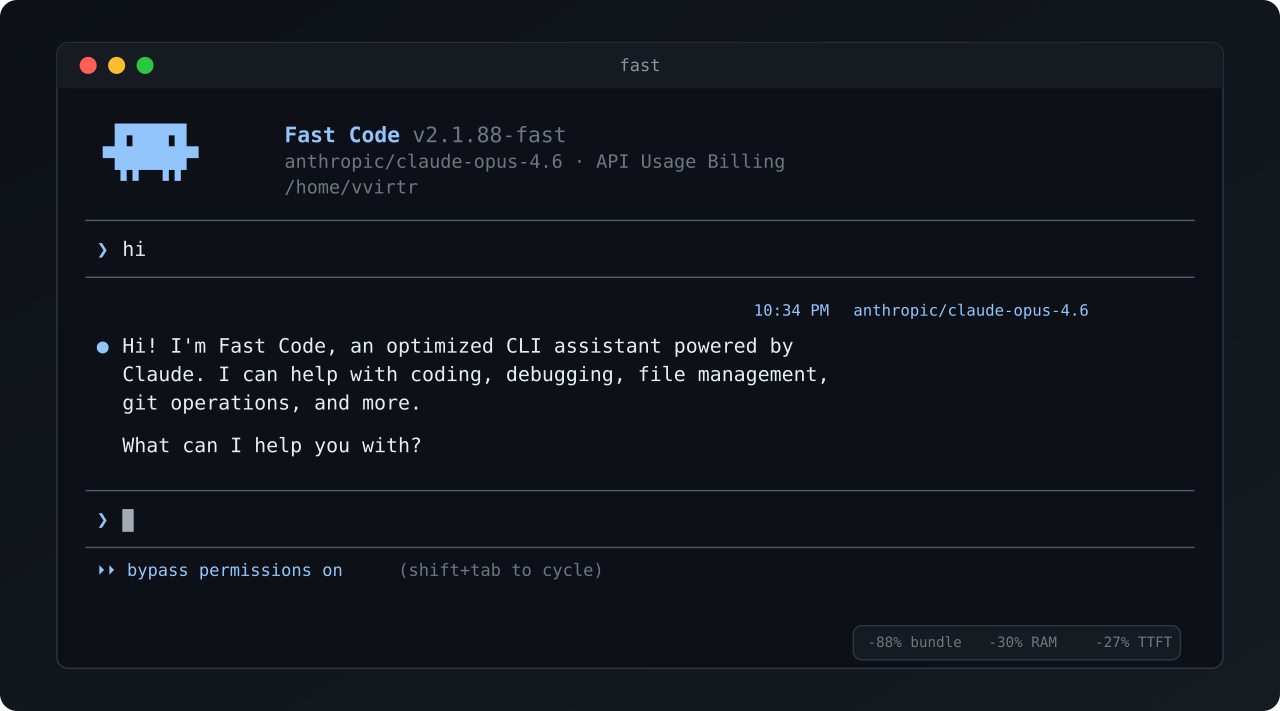
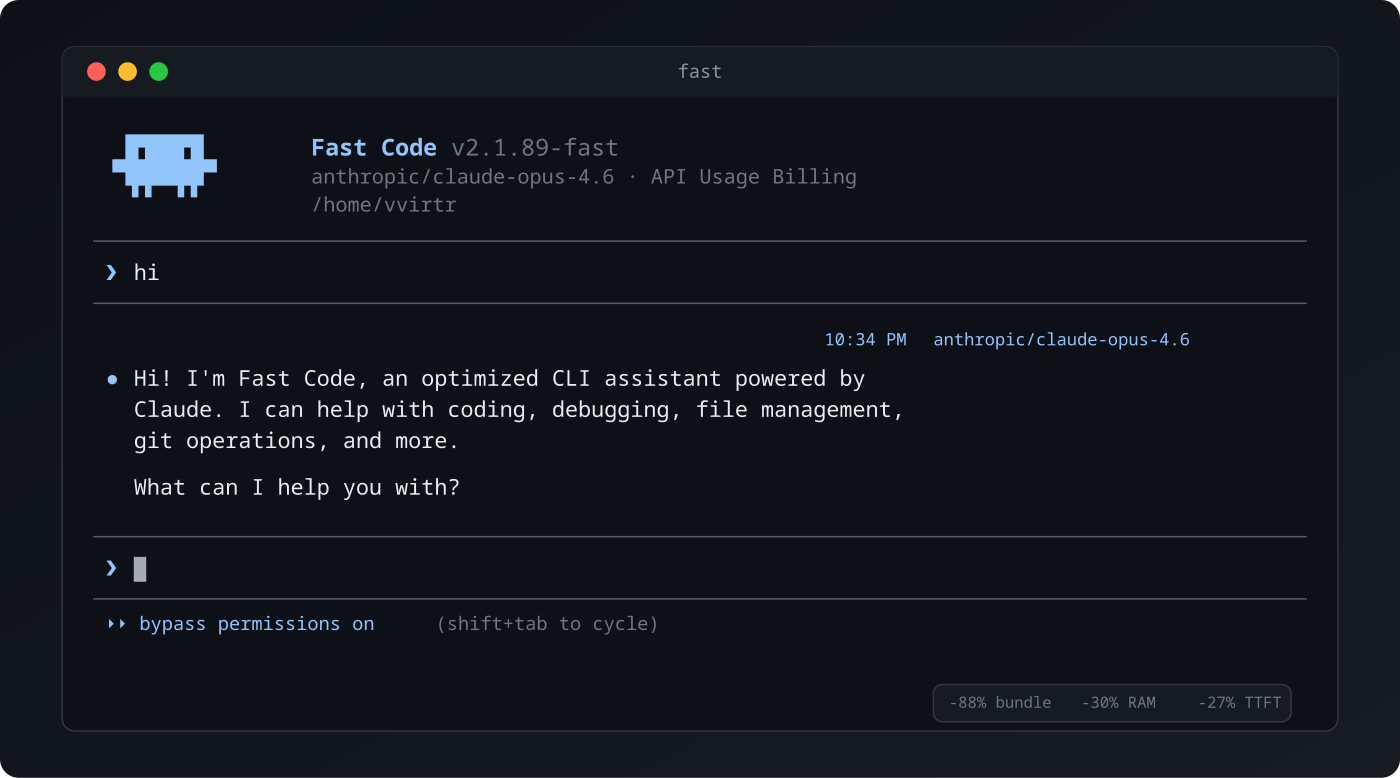
Bump version to 2.1.89-fast

diff --git a/build.ts b/build.ts
@@ -99,7 +99,7 @@ const FEATURE_FLAGS: Record<string, boolean> = {
   WORKFLOW_SCRIPTS: false,
 };
 
-const version = process.env.VERSION || "2.1.88-fast";
+const version = process.env.VERSION || "2.1.89-fast";
 const buildTime = new Date().toISOString();
 
 const define: Record<string, string> = {

diff --git a/README.md b/README.md
@@ -4,7 +4,7 @@
   <img src="cover2.svg" width="700" alt="Fast Code terminal">
 </p>
 
-Optimized fork of Claude Code 2.1.88. Same functionality, smaller bundle, lower memory footprint.
+Optimized fork of Claude Code 2.1.89. Same functionality, smaller bundle, lower memory footprint.
 
 ## Benchmarks
 
@@ -38,7 +38,7 @@ fast                          # interactive
 fast -p "your prompt"         # non-interactive
 fast --model sonnet           # pick model
 fast -c                       # continue last session
-fast --version                # 2.1.88-fast (Fast Code)
+fast --version                # 2.1.89-fast (Fast Code)
 ```
 
 Auth: set `ANTHROPIC_API_KEY` or run `fast auth login`.
